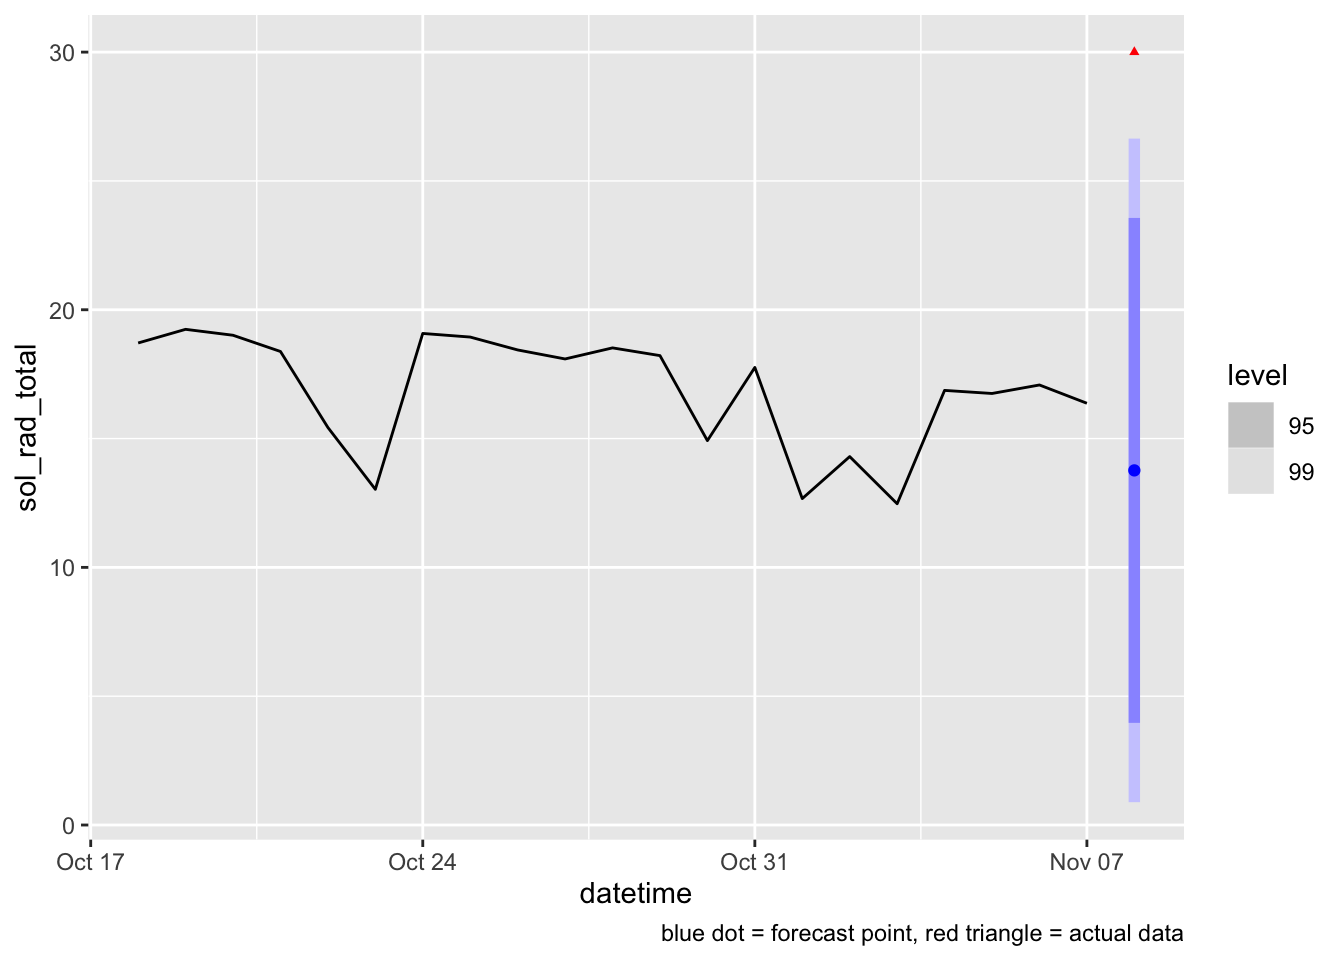
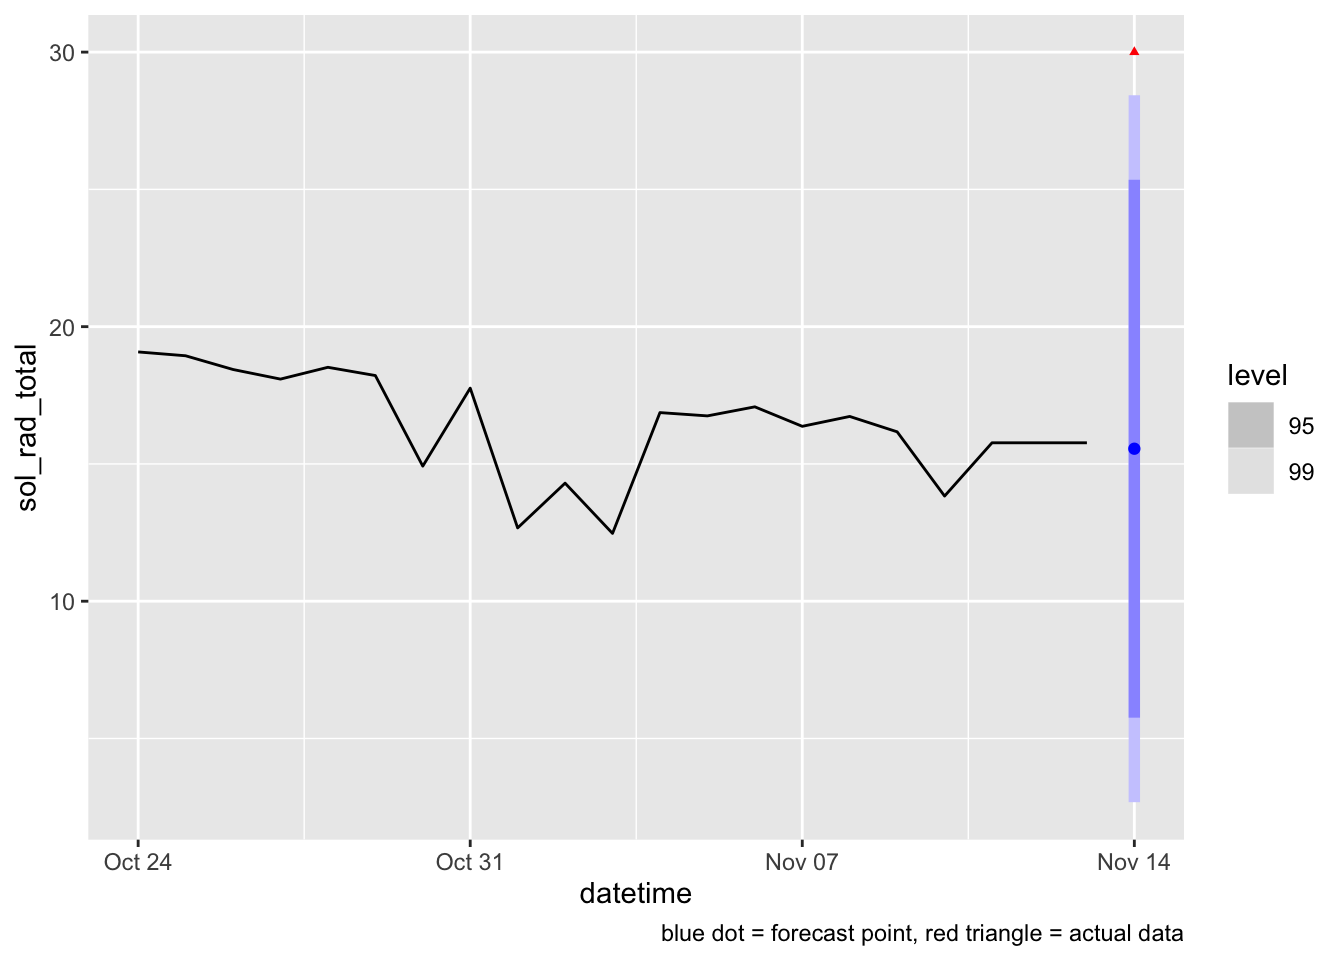
try to get pipeline to invalidate correctly

diff --git a/docs/report.html b/docs/report.html
@@ -217,7 +217,7 @@ The following objects are masked from 'package:base':
 # Key:       meta_station_id, meta_station_name [1]
   meta_station_id meta_station_name datetime   sol_rad_total forecast flag   
   &lt;chr&gt;           &lt;chr&gt;             &lt;date&gt;             &lt;dbl&gt;    &lt;dbl&gt; &lt;chr&gt;  
-1 az01            Tucson            2022-11-08            30     13.8 extreme</code></pre>
+1 az01            Tucson            2022-11-14            30     15.6 extreme</code></pre>
 </div>
 </div>
 <p>Filter by stations with flags and only plot those. Or maybe embed a simple shiny app that lets you view different stations?</p>
